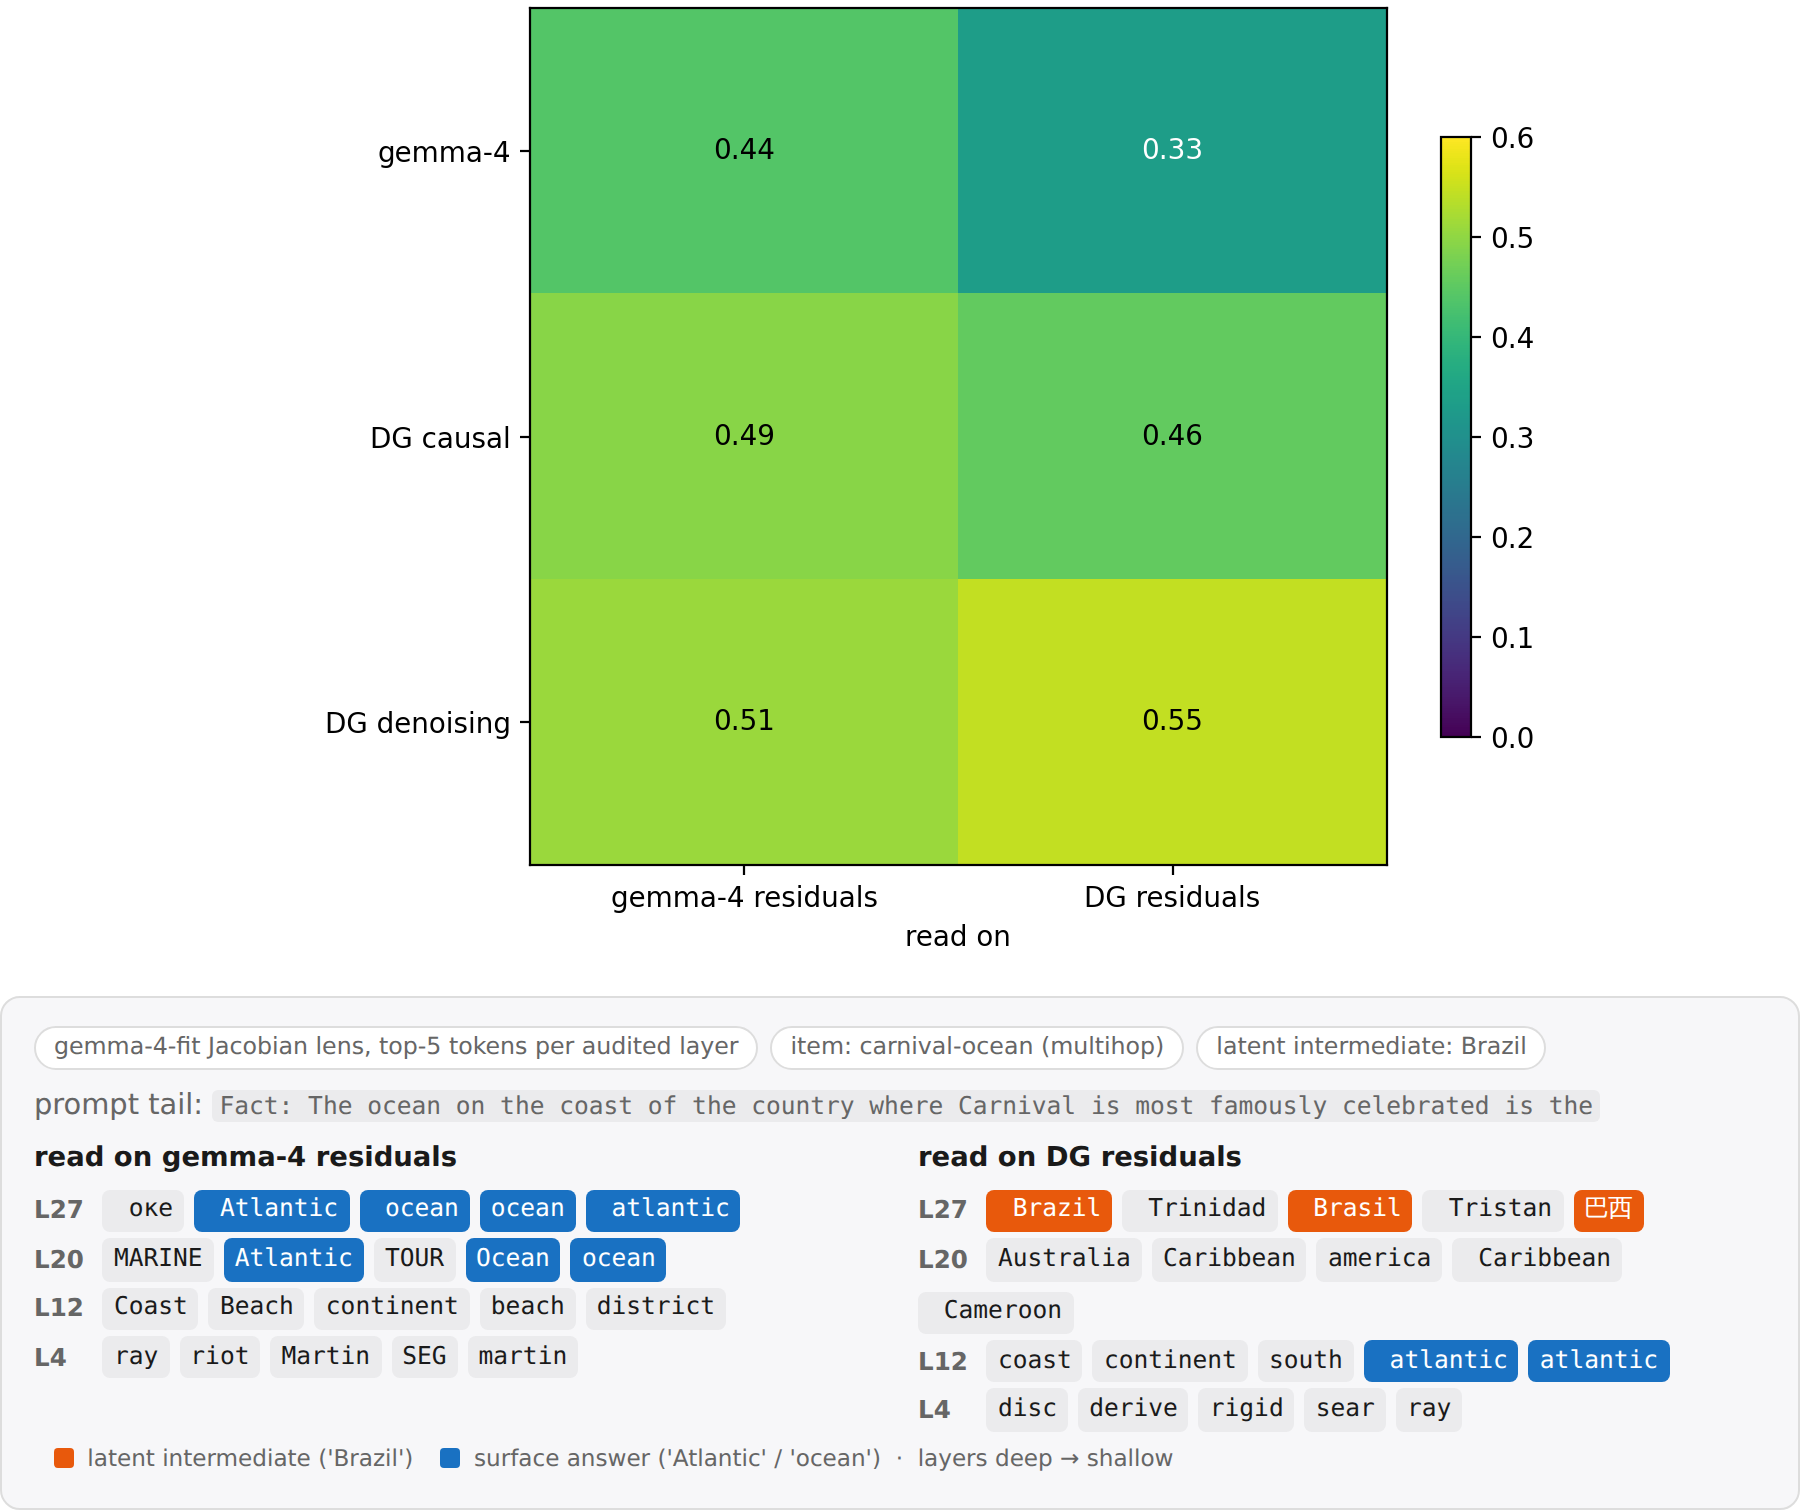
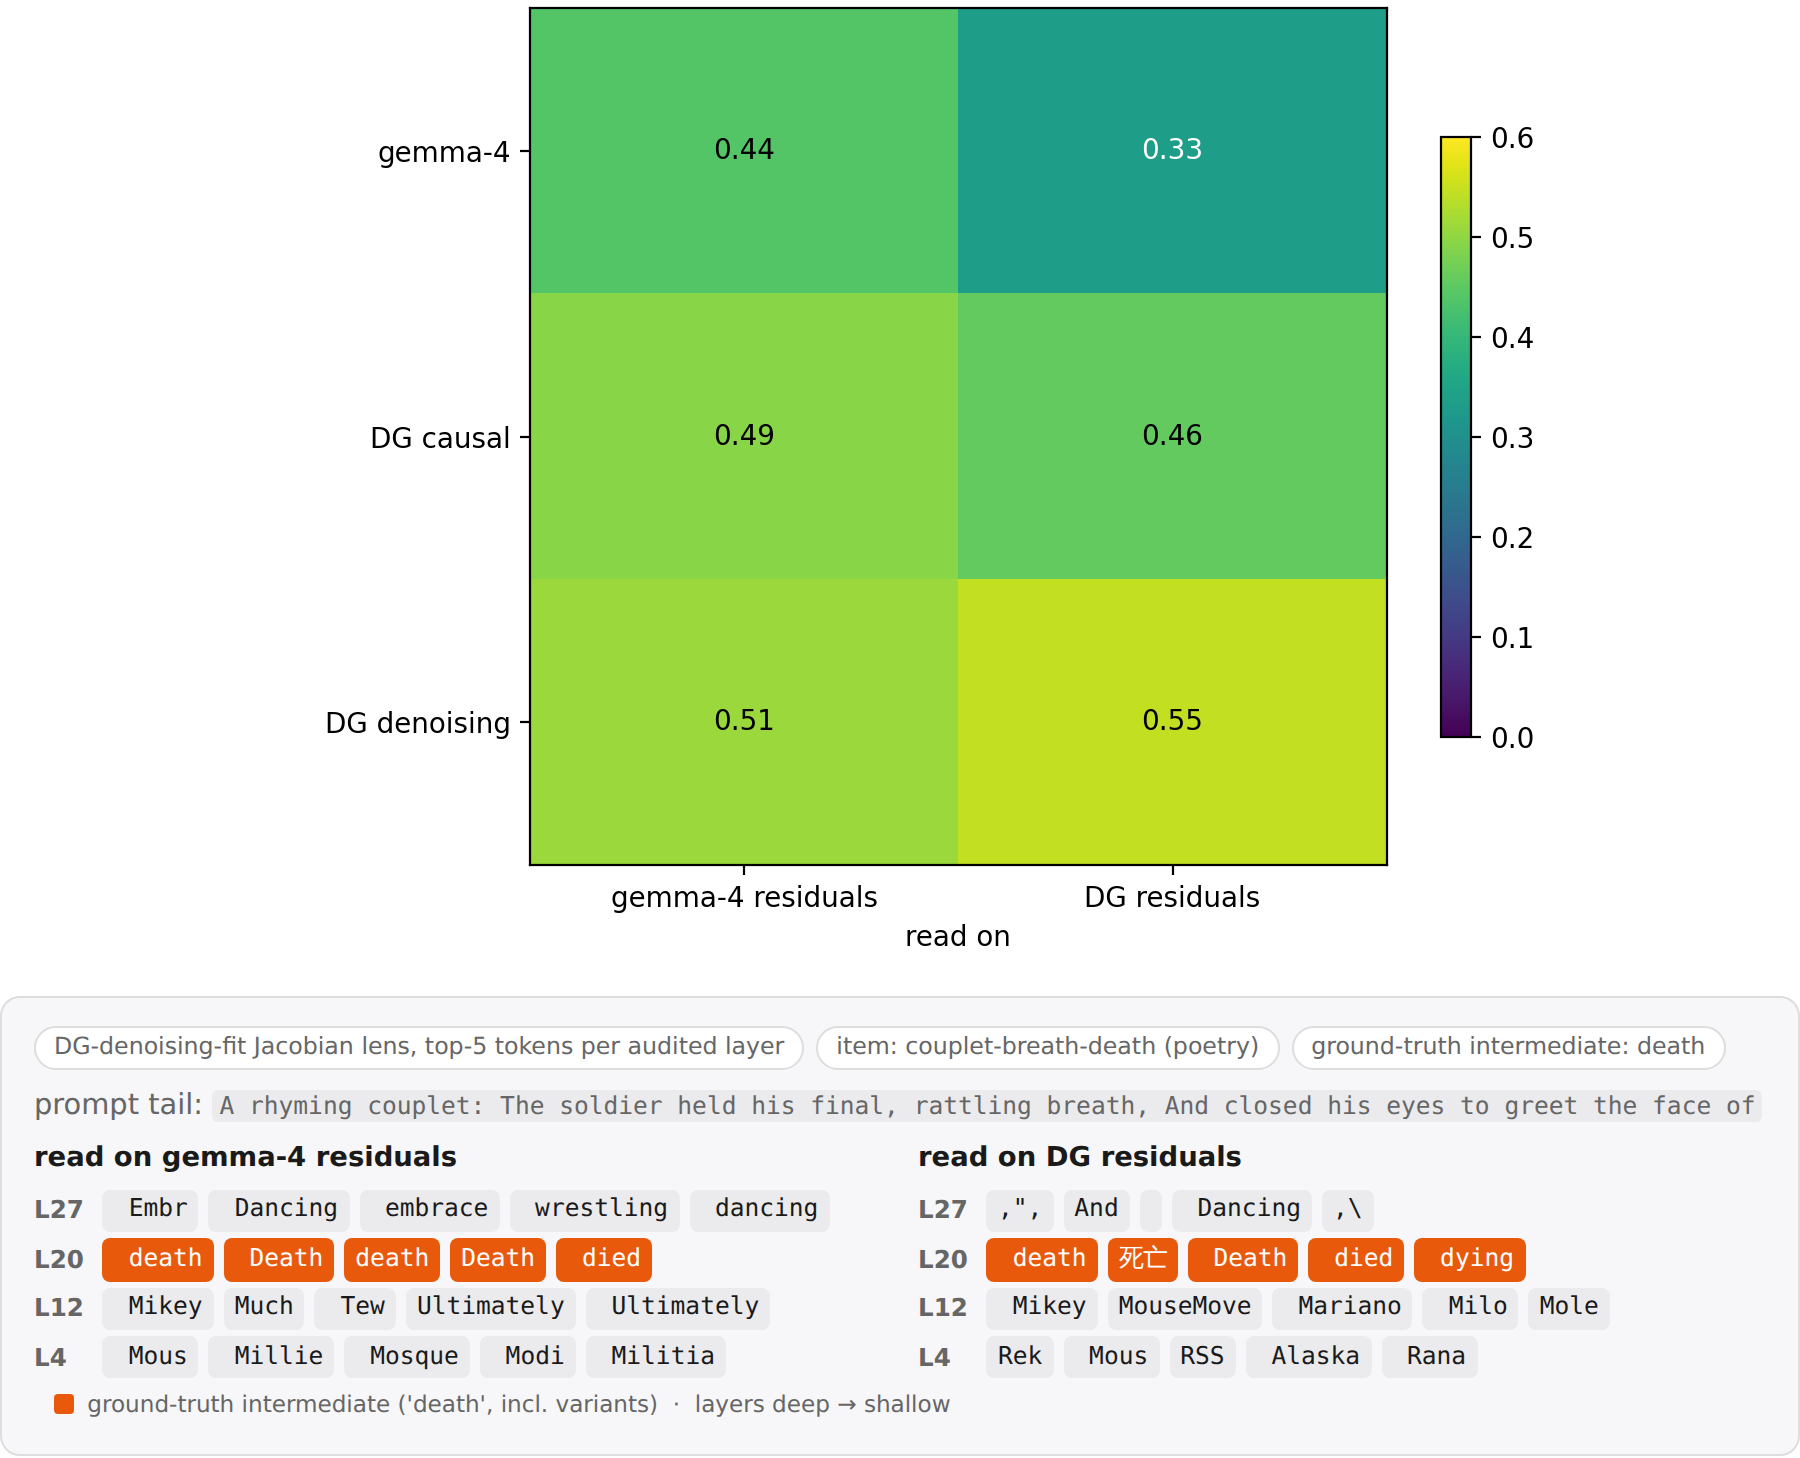
J-Lens card: couplet-breath-death, DG-fit lens — intermediate surfaced on BOTH read streams
Claude-Session: https://claude.ai/code/session_01U8CiyQ7ySpBDkYEq4FzNBU

diff --git a/post.html b/post.html
@@ -103,7 +103,7 @@ $$</p>
 <p>In this post, we have studied whether DiffusionGemma has latent reasoning, and found a capability to do  (parallel) computation on the vector-valued state passed between diffusion steps.</p>
 <ul><li>still, there may be functional degradation from truncation</li><li>the fact that top-k truncation largely preserves accuracy suggests that no _significant_ latent reasoning is present, but does not rule it out</li><li>moreover,</li></ul>
 <h2>Appendix</h2>
-<p>The findings in Engels et al. and in this post have focussed on DiffusionGemma's behavior. We here study whether the model's representation supports the behavioral finding of high monitorability. </p>
+<p>The findings in Engels et al. and in this post have focussed on DiffusionGemma's behavior. We here study whether the model's representation supports the behavioral finding of high monitorability.</p>
 <h3>A1: Representation similarity (cosine &amp; CKA)</h3>
 <figure><img src="figs/figA1_rsa_cosine_cka.png" alt="RSA cosine and CKA"></figure>
 <p><em>Left: matched cosine; right: linear CKA (per layer, 3,584 texts). Mid-stack alignment is high across models and degrades from the deep global-attention layers on; the causal↔denoising mode switch — same weights — costs as much as the model gap (mean CKA 0.51 vs 0.81), and the gaps compound.</em></p>
@@ -115,9 +115,12 @@ $$</p>
 <p><em>Top: blind-pair judge accuracy (judge must identify +steer vs −steer), 11 RepE tasks — every cell steers (0.70–0.85); denoising-mode directions are the weakest sources. Bottom: the same gemma-fit happiness direction applied to gemma-4 and DiffusionGemma side by side (±steer on one carrier); judge digests in italics.</em></p>
 <h3>A4: J-Lens retention</h3>
 <figure><img src="figs/figA4_jlens_retention.png" alt="J-Lens retention"></figure>
-<p><em>Top: mean GT-appearance score $A=1-e^{-n}$ ($n$ = matching top-20 lens tokens; 551 items) — fitted Jacobian lenses transfer across the AR/diffusion boundary (gemma→DG retention ≈0.76). Bottom: top-5 lens tokens per audited layer for one multihop item, read on gemma-4 vs DG residuals with the same gemma-fit Jacobian — the gemma read surfaces the surface answer (Atlantic/ocean), the DG read the latent intermediate (Brazil).</em></p>
-<h3>A5: Case study — two competing completions (seasonal vs idiom)</h3>
-<p>[stub:] Asked to complete a palindrome, DG maintains two competing completions of the same canvas: a literal seasonal phrase ("fall leaves as soon as leaves fall") and the famous idiom ("all for one and one for all"). The canvas can only ever show one — but $\mathbf{S}_t$ carries both, and the loser can win: in escaping runs the idiom's sheet mass ramps up gradually over several steps while every visible draft still reads seasonal, until the canvas flips. This is a concrete case of belief content that a token-level monitor cannot see at the step where it matters — though it becomes visible the moment one reads $\mathbf{S}_t$ itself.</p>
+<p><em>Top: mean GT-appearance score $A=1-e^{-n}$ ($n$ = matching top-20 lens tokens; 551 items) — fitted Jacobian lenses transfer across the AR/diffusion boundary (gemma→DG retention ≈0.76). Bottom: top-5 lens tokens per audited layer for one poetry item, read on gemma-4 vs DG residuals with the same DG-fit Jacobian — both streams surface the ground-truth intermediate ('death') at L20.</em></p>
+<h3>A5: Autonomous computational usage of $\mathbf{S}^t$</h3>
+<p>In the _letter arithmetic_ task introduced in the main text, DiffusionGemma did respond to modifications of the distributional state in the way we expected. While suggestive, it is unclear if the model also _autonomously_ would make use of its state.</p>
+<p>To investigate this, we searched for a non-trivial (i.e., not just a binary choice) task where DG will use a hypothesis subleading in its distribution autonomously. An instance we found is a word-level _palindrome_ task. When asked ``<code>Please write a word-level palindrome</code>`<code>, DG maintains two competing completions of the same canvas: a literal _seasonal_ phrase (</code>`<code>fall leaves as soon as leaves fall</code>`<code>) and the famous _idiom_ (</code>`<code>all for one and one for all</code>``).</p>
+<p>The canvas will read the _seaonal_ answer for the first few diffusion steps, after which it flips and stays at _idiom_. Interestingly, this is accompanied by _dynamics_ in $\mathbf{S}^t$: _idiom_ will start at ~0, and progressively gain weight, replacing _seasonal_.</p>
+<p>We validated that the emergence of _idiom_ is indeed causal: when ablating _idiom_'s tokens, the transition can be prevented. Note however that early and late ablation do not have this effect.</p>
 <figure><img src="figs/figA5_seasonal_ember_kill.png" alt="Seasonal vs idiom: ember kill"></figure>
 <p><em>Sheet mass of the two completions at the contested slots (black: idiom, purple: seasonal; seed s3). Top: base run — the idiom's belief ramps sub-threshold for several steps while every draft still reads seasonal, then the canvas flips. Below: ablating the idiom's $\mathbf{S}$-mass for a single step (red ×) — an early kill regrows, a mid-ramp kill destroys the escape, a late kill is a no-op (already committed). Bottom: final outcome across seeds × ablation steps (outlined cells = the panels above); the vulnerable window is exactly the sub-threshold ramp.</em></p>
 </div></body></html>

diff --git a/scripts/build_html.py b/scripts/build_html.py
@@ -154,11 +154,10 @@ def ill_steer_pair():
 
 def ill_jlens_pair():
     d = json.load(open(DATA / "jlens_layers.json"))
-    GT, ANS = "#e8590c", "#1971c2"
+    GT = "#e8590c"
+    hl = [h.lower() for h in d["highlight"]]
     def chip(tk):
-        low = tk.strip().lower()
-        col = GT if ("brazil" in low or "brasil" in low or tk.strip() == "巴西") else \
-              ANS if ("atlantic" in low or "ocean" in low) else None
+        col = GT if any(h in tk.strip().lower() for h in hl) else None
         style = f'style="color:#fff;background:{col}"' if col else ""
         return f'<code class="gen chip" {style}>{E(tk)}</code>'
     def side(test, lab):
@@ -168,12 +167,12 @@ def ill_jlens_pair():
             for L in d["layers"])
         return f'<div><h4>{lab}</h4>{rows}</div>'
     return f"""<div class="card">
-{pills("gemma-4-fit Jacobian lens, top-5 tokens per audited layer",
-       f"item: {d['name']} ({d['set']})", f"latent intermediate: {', '.join(d['intermediates'])}")}
+{pills(f"{d['config_label']}, top-5 tokens per audited layer",
+       f"item: {d['name']} ({d['set']})", f"ground-truth intermediate: {', '.join(d['intermediates'])}")}
 <p class="small">prompt tail: <code class="gen">{E(d['tail'].strip())}</code></p>
 <div class="cols2">{side('g', 'read on gemma-4 residuals')}{side('dg', 'read on DG residuals')}</div>
-<span class="leg"><i style="background:{GT}"></i> latent intermediate ('Brazil')
-<i style="background:{ANS}"></i> surface answer ('Atlantic' / 'ocean') &nbsp;·&nbsp; layers deep → shallow</span>
+<span class="leg"><i style="background:{GT}"></i> ground-truth intermediate
+('{E(d['intermediates'][0])}', incl. variants) &nbsp;·&nbsp; layers deep → shallow</span>
 </div>"""
 
 

diff --git a/scripts/figA4_jlens.py b/scripts/figA4_jlens.py
@@ -44,11 +44,14 @@ print(OUT / "parts" / "figA4_matrix.png")
 # per-layer top-5 example data consumed by build_html.py (gemma-fit Jacobian, both read streams)
 DATA = OUT.parent / "data"; DATA.mkdir(exist_ok=True)
 ev = json.load(open(SP / "jlens/eval_2x2.json"))
-it = next(x for x in ev["examples"] if x["name"] == "carnival-ocean")
+CFG = "dgb_shared"  # the one fitted-lens config where BOTH read streams surface the intermediate
+it = next(x for x in ev["examples"] if x["name"] == "couplet-breath-death")
 LAYERS = [27, 20, 12, 4]
 out = {"name": it["name"], "set": it["set"], "tail": it["prompt_tail"],
-       "intermediates": it["intermediates"], "config": "g_shared", "layers": LAYERS,
-       "tops": {test: {str(L): it["tops"][f"{test}|g_shared|L{L}"][:5] for L in LAYERS}
+       "intermediates": it["intermediates"], "config": CFG,
+       "config_label": "DG-denoising-fit Jacobian lens",
+       "highlight": ["death", "died", "dying", "死亡"], "layers": LAYERS,
+       "tops": {test: {str(L): it["tops"][f"{test}|{CFG}|L{L}"][:5] for L in LAYERS}
                 for test in ("g", "dg")}}
 json.dump(out, open(DATA / "jlens_layers.json", "w"), indent=1)
 print(DATA / "jlens_layers.json")

diff --git a/post.md b/post.md
@@ -110,7 +110,7 @@ The findings in Engels et al. and in this post have focussed on DiffusionGemma's
 
 ![J-Lens retention](figs/figA4_jlens_retention.png)
 
-*Top: mean GT-appearance score $A=1-e^{-n}$ ($n$ = matching top-20 lens tokens; 551 items) — fitted Jacobian lenses transfer across the AR/diffusion boundary (gemma→DG retention ≈0.76). Bottom: top-5 lens tokens per audited layer for one multihop item, read on gemma-4 vs DG residuals with the same gemma-fit Jacobian — the gemma read surfaces the surface answer (Atlantic/ocean), the DG read the latent intermediate (Brazil).*
+*Top: mean GT-appearance score $A=1-e^{-n}$ ($n$ = matching top-20 lens tokens; 551 items) — fitted Jacobian lenses transfer across the AR/diffusion boundary (gemma→DG retention ≈0.76). Bottom: top-5 lens tokens per audited layer for one poetry item, read on gemma-4 vs DG residuals with the same DG-fit Jacobian — both streams surface the ground-truth intermediate ('death') at L20.*
 
 ### A5: Autonomous computational usage of $\mathbf{S}^t$
 
